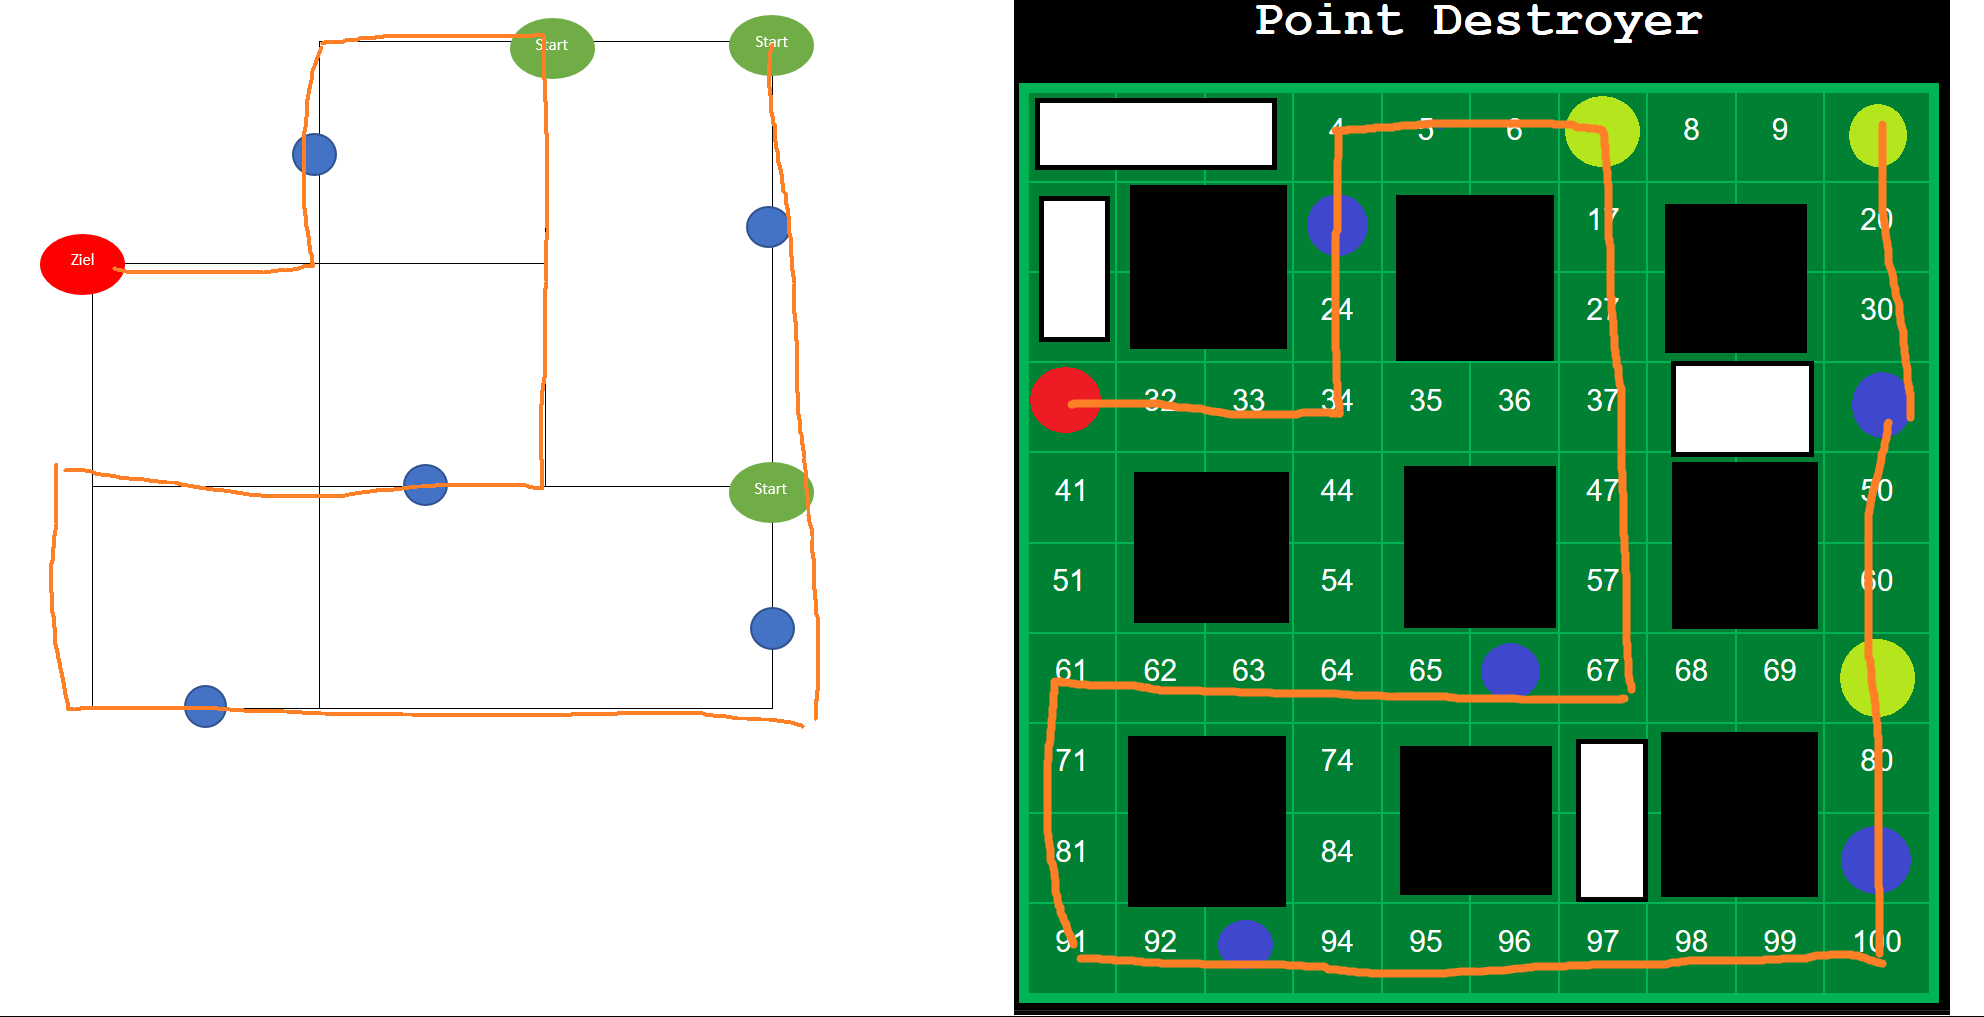
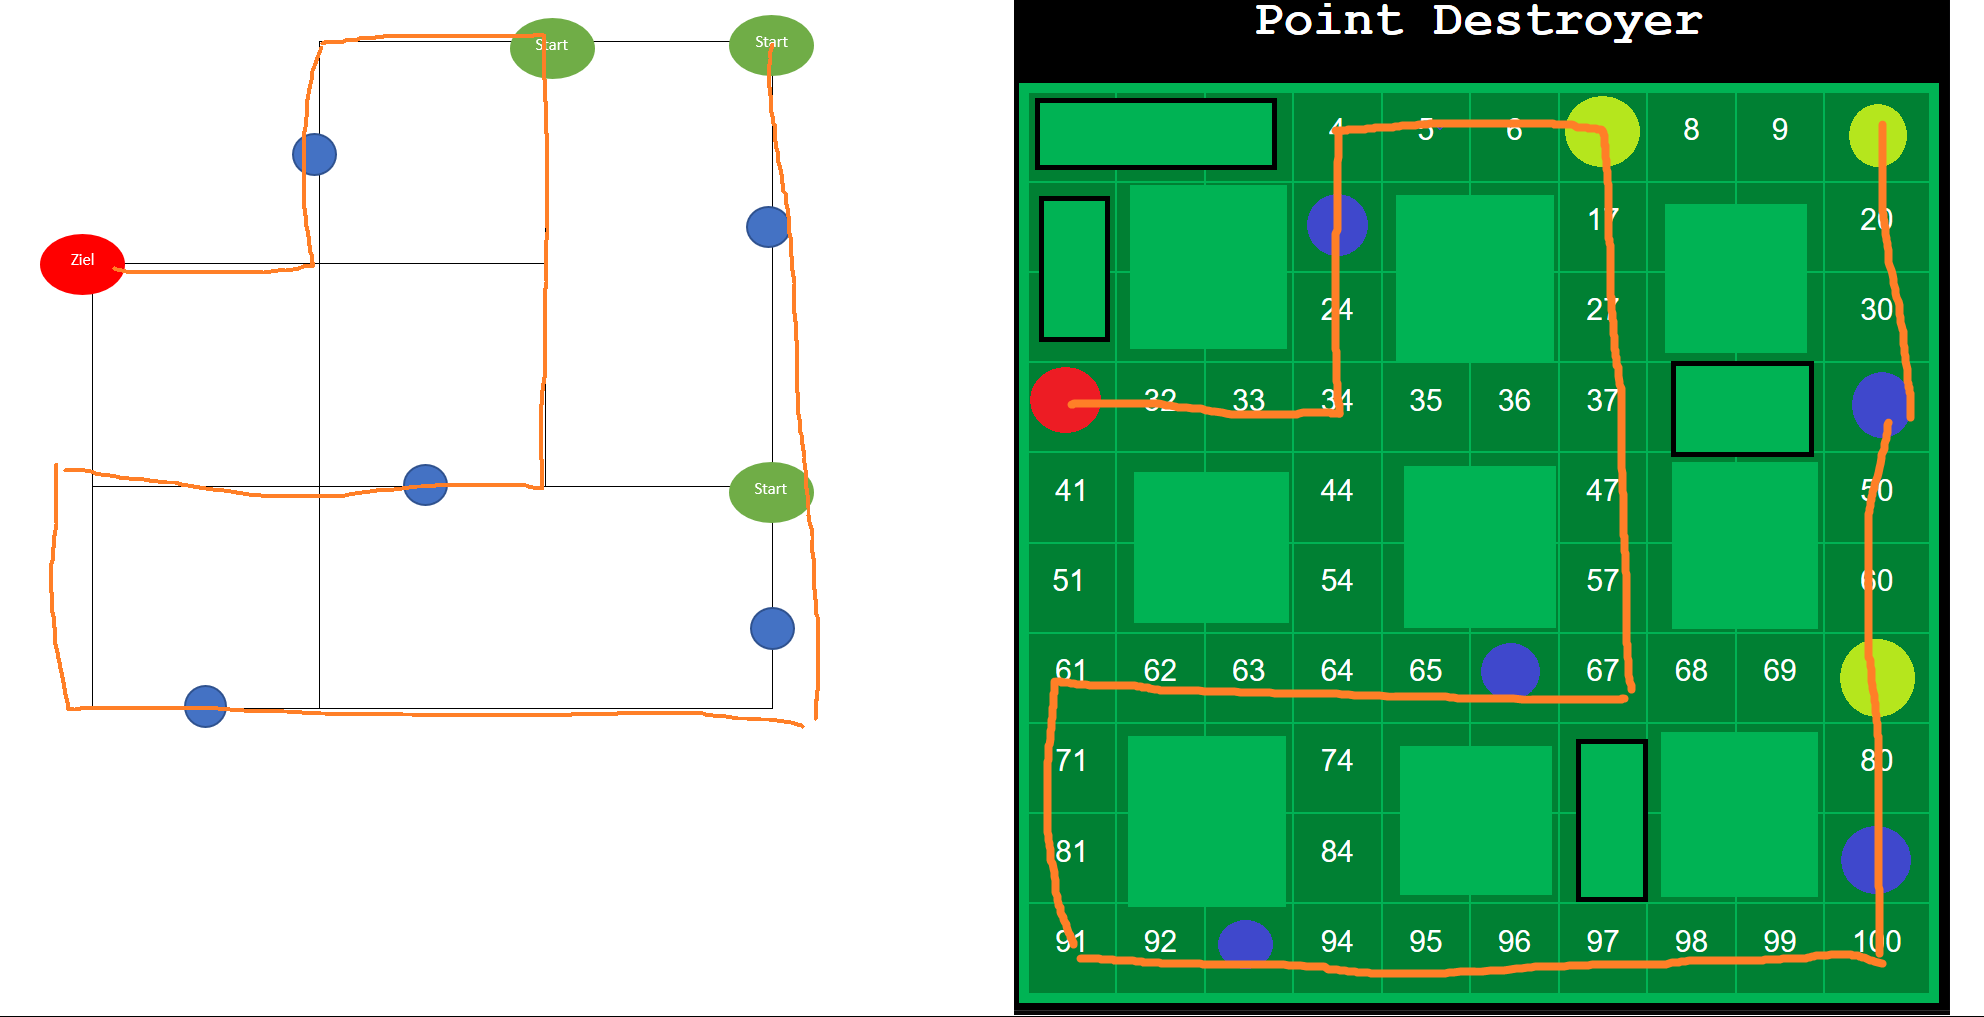
board looking good

diff --git a/style.css b/style.css
@@ -15,15 +15,16 @@ body {
 }
 
 #container{
-  /*border: 2px solid red;*/
+  /*background-color: red;*/
 }
 
 .grid-container {
   margin: auto;
   display: grid;
   grid-template-columns: auto auto auto auto auto auto auto auto auto auto;
-  grid-gap: 2px;
+  /*grid-gap: 2px;*/
   background-color: #00b354;
+  /*border: 2px solid red;*/
   padding: 10px;
   height: 900px;
   width: 900px;
@@ -31,30 +32,30 @@ body {
 }
 
 .grid-container > div {
-  background-color: #008033;
+  /*background-color: #008033;*/
   text-align: center;
   padding: 20px 0;
   font-size: 30px;
 }
 
 .item {
-	background-color: #00b354;
+  background-color: #008033;
 }
 
 .start-field{
-  color: #ff6600;
+  background-color: #ff6600;
 }
 
 .end-field{
-  color: #ff0000;
+  background-color: #ff0000;
 }
 
 .point-field{
-  color: #0000e6;
+  background-color: #0000e6;
 }
 
 .cut-out-field{
-  color: #00b354;
+  background-color: #00b354;
 }
 
 

diff --git a/app.js b/app.js
@@ -24,7 +24,7 @@ const generatePlayboard = function(){
         let element = document.createElement('div');
         element.classList.add("item");
         element.id = `field-${field}`;
-        element.innerHTML = `${field}`;
+        element.innerHTML = ''; //`${field}`;
         playboard.appendChild(element);
     }
 
